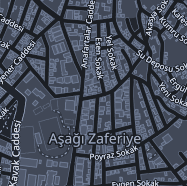
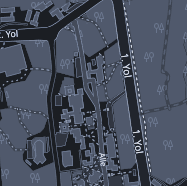
Standalone main for GpsMap and some minor fixes

diff --git a/assets/map.html b/assets/map.html
@@ -25,7 +25,7 @@
           })
         ],
         view: new ol.View({
-          center: ol.proj.fromLonLat([26.628669, 40.843132]),
+          center: ol.proj.fromLonLat([32.77763183069467,39.89293236532307]),
           zoom: 15
         }),
         controls: [],

diff --git a/src/gpsmap.py b/src/gpsmap.py
@@ -19,9 +19,9 @@ class GpsMap(QGroupBox):
         self.height = r.height()
         self.web = QWebEngineView(self)
         self.web.setHtml(open("assets/map.html", "r").read())
+        print(open("assets/map.html", "r").read())
         self.web.setGeometry(2, 2, self.width-4, self.height-4)
-        self.web.loadFinished.connect(
-            lambda: QTimer.singleShot(1000, self.mask_image))
+        self.web.loadFinished.connect(self.mask_image)
         self.web.setAttribute(Qt.WA_DontShowOnScreen)
         self.cursor = QLabel(self)
         self.cursor.setGeometry(2, 2, r.width()-4, r.height()-4)
@@ -46,4 +46,32 @@ class GpsMap(QGroupBox):
 
     def setLocation(self, a, b):
         self.web.page().runJavaScript(f'window.setLocation({a},{b})')
-        self.mask_image() 
+        self.mask_image()
+
+
+if __name__ == "__main__":
+    import sys
+    import numpy as np
+
+    class MainWindow(QMainWindow):
+        def __init__(self, parent=None):
+            super(MainWindow, self).__init__(parent)
+            self.timer = QTimer(self)
+            self.navball = GpsMap()
+            self.navball.setParent(self)
+            self.setGeometry(0, 0, 256, 256)
+            self.navball.setGeometry(0, 0, 256, 256)
+            self.navball.web.loadFinished.connect(
+                lambda: self.timer.timeout.connect(self.update_widget))
+            self.timer.start(32)
+            self.data = np.array([32.77763183069467, 39.89293236532307])
+
+        def update_widget(self):
+            self.data += .0001
+            self.navball.setLocation(*self.data)
+
+    app = QApplication(sys.argv)
+    main_window = MainWindow()
+    main_window.show()
+    r = app.exec_()
+    sys.exit(r)

diff --git a/src/telemetry.py b/src/telemetry.py
@@ -119,8 +119,8 @@ class TelemetryThread(QThread):
                 z %= 360
                 for i in range(3, 11):
                     r[i].append((((count+i)) % 3-1)*i)
-                r[8].append(26.628669+count/2500)
-                r[9].append(40.843132+count/2500)
+                r[8].append(32.77763183069467+count/2500)
+                r[9].append(39.89293236532307+count/2500)
                 self.write_record(r)
                 self.changeTelemetry.emit()
                 if self.sleep:
